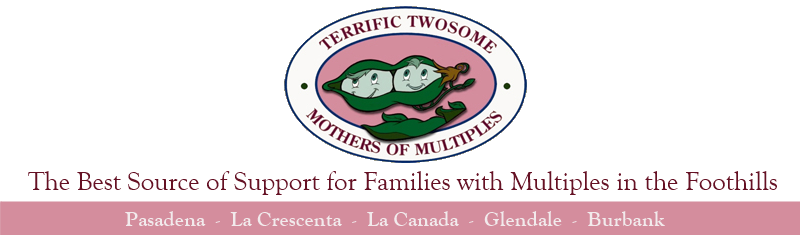
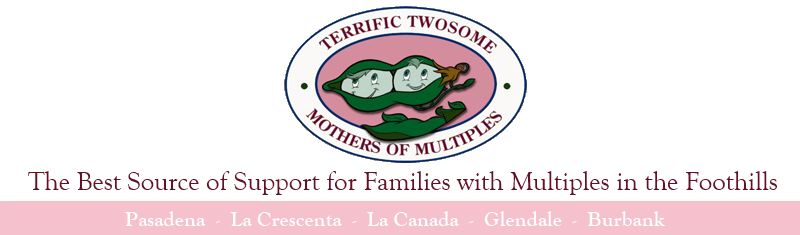
Changed color scheme; Added sidebar

Changed region(s): [[0.0, 0.834, 1.0, 1.0]]

diff --git a/style.css b/style.css
@@ -8,7 +8,7 @@
 body {
 	margin:0px;
 	font-family: "Gill Sans", "Gill Sans MT", Calibri, sans-serif;
-	color: #651124;
+	color: #442222;
 }
 
 a:link {
@@ -17,7 +17,7 @@ a:link {
 }
 
 a:visited {
-	color:#4D9E1D;
+	color: #4D9E1D;
 	text-decoration:none;
 }
 
@@ -25,7 +25,7 @@ a:hover {
 	text-decoration:underline;
 }
 
-#wrapper {
+#mainWrapper {
 	width:800px;
 	margin-left:auto;
 	margin-right:auto;
@@ -45,7 +45,7 @@ a:hover {
 }
 
 .menu {
-	background-color:#D48D9D;
+	background-color: #F4C1CD;
 	border-top: solid 1px #FFECF0;
 	width:800px;
 	height:39px;
@@ -71,15 +71,15 @@ a:hover {
 }
 
 .menu a:link {
-	color:#651124;
+	color: #573D43;
 }
 
 .menu a:visited {
-	color:#651124;
+	color: #573D43;
 }
 
 .menu a:hover {
-	background-color:#9FCA86;
+	background-color: #D2F2BF;
 	color:#ffffff;
 }
 
@@ -98,11 +98,41 @@ a:hover {
 	display:inline-block;
 }
 
+#contentWrapper {
+	display:table;
+	min-height:600px;
+}
+
+#sidebar {
+	width:150px;
+	background-color:#D2F2BF;
+	padding-left:10px;
+	margin-top:0px;
+	display:table-cell;
+	vertical-align: top;
+}
+
+#sidebar h3 {
+	font-size:1.15em;
+	margin-bottom:.3em;
+}
+
+#sidebar ul {
+	padding-left:10px;
+}
+
+#sidebar li {
+	list-style:none;
+	padding:0px;
+}
+
 #content {
 	min-height:600px;
-	background-color: #FFECF0;
+	background-color: #F7FFF2;
 	padding:1em;
 	padding-top:1.5em;
+	display:table-cell;
+	width: 650px;
 }
 
 #content p {
@@ -124,7 +154,7 @@ a:hover {
 
 #footer {
 	height:110px;
-	background-color:#651124;
+	background-color: #F4C1CD;
 	padding-top:6px;
 }
 
@@ -132,15 +162,15 @@ a:hover {
 	margin:0px;
 	font-size:.80em;
 	text-align:center;
-	color:#FFECF0;
+	color: #000000;
 }
 
 #footer a:link {
-	color:#D48D9D;
+	color: #2E6010;
 }
 
 #footer a:visited {
-	color:#D48D9D;
+	color: #2E6010;
 }
 
 #parentorgs {

diff --git a/home.php b/home.php
@@ -1,27 +1,33 @@
 <?php get_header() ?>
 <?php //<html> ?>
 	<?php //<body> ?>
-		<?php //<div id="wrapper"> ?>
-			<div id="content">
-			<?php
-					// Start the Loop.
-					while (have_posts()) {
-						the_post();?>
-						<h3 class="postTitle">
-							<a href="<?php echo get_permalink(); ?>">
-								<?php the_title(); ?>
-							</a>
-						</h3>
-						<p class="postMeta">
-							Posted on: <span class="postTime"><?php the_time("l, F j, Y g:i a"); ?></span> by <span class="postAuthor"><?php the_author();?></span>
-						</p>
-						<div class="postExcerpt">
-							<?php the_excerpt(); ?>
-						</div>
-						<p class="postTags">
-							<?php the_tags("Tagged as: ",", ",""); ?>
-						</p>
-			<?php	}
-			?>
+		<?php //<div id="mainWrapper"> ?>
+			<div id="contentWrapper">
+				<?php
+					//Display the sidebar
+					get_sidebar();
+				?>
+				<div id="content">
+				<?php
+						// Start the Loop.
+						while (have_posts()) {
+							the_post();?>
+							<h3 class="postTitle">
+								<a href="<?php echo get_permalink(); ?>">
+									<?php the_title(); ?>
+								</a>
+							</h3>
+							<p class="postMeta">
+								Posted on: <span class="postTime"><?php the_time("l, F j, Y g:i a"); ?></span> by <span class="postAuthor"><?php the_author();?></span>
+							</p>
+							<div class="postExcerpt">
+								<?php the_excerpt(); ?>
+							</div>
+							<p class="postTags">
+								<?php the_tags("Tagged as: ",", ",""); ?>
+							</p>
+				<?php	}
+				?>
+				</div>
 			</div>
 			<?php get_footer() ?>

diff --git a/index.php b/index.php
@@ -1,14 +1,20 @@
 <?php get_header() ?>
 <?php //<html> ?>
 	<?php //<body> ?>
-		<?php //<div id="wrapper"> ?>
-			<div id="content">
+		<?php //<div id="mainWrapper"> ?>
+			<div id="contentWrapper">
 				<?php
-					// Start the Loop.
-					while (have_posts()) {
-						the_post();
-						the_content();
-					}
+					//Display the sidebar
+					get_sidebar();
 				?>
+				<div id="content">
+					<?php
+						// Start the Loop.
+						while (have_posts()) {
+							the_post();
+							the_content();
+						}
+					?>
+				</div>
 			</div>
 			<?php get_footer() ?>

diff --git a/sidebar.php b/sidebar.php
@@ -1,0 +1,17 @@
+<?php //<html> ?>
+	<?php //<body> ?>
+		<?php //<div id="wrapper"> ?>
+			<div id="sidebar">
+				<h3>List Heading</h3>
+				<ul>
+					<li><a href=#>List Item Link</a></li>
+					<li><a href=#>List Item Link</a></li>
+					<li><a href=#>List Item Link</a></li>
+				</ul>
+				<h3>List Heading</h3>
+				<ul>
+					<li><a href=#>List Item Link</a></li>
+					<li><a href=#>List Item Link</a></li>
+					<li><a href=#>List Item Link</a></li>
+				</ul>
+			</div>

diff --git a/header.php b/header.php
@@ -6,7 +6,7 @@
 	</head>
 	
 	<body>
-		<div id="wrapper">
+		<div id="mainWrapper">
 			<div id="header">
 				<img src="<?php bloginfo("template_url"); ?>/masthead.png" alt="<?php bloginfo('name'); ?>"/>
 					<?php wp_nav_menu(); ?>

diff --git a/footer.php b/footer.php
@@ -1,6 +1,6 @@
 <?php //<html> ?>
 	<?php //<body> ?>
-		<?php //<div id="wrapper"> ?>
+		<?php //<div id="nainWrapper"> ?>
 			<div id="footer">
 				<div id="parentorgs">
 					<a href="http://www.nomotc.org" target="_blank">
